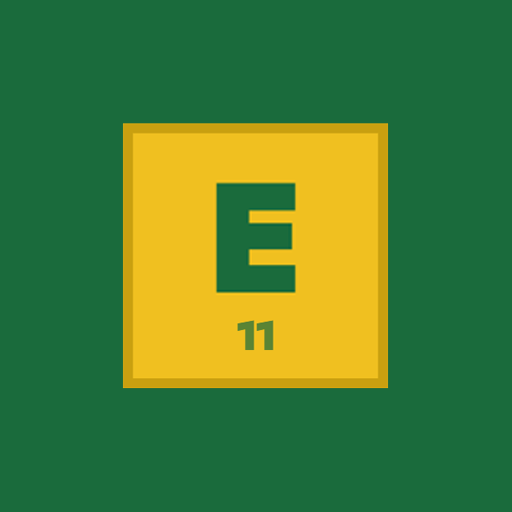
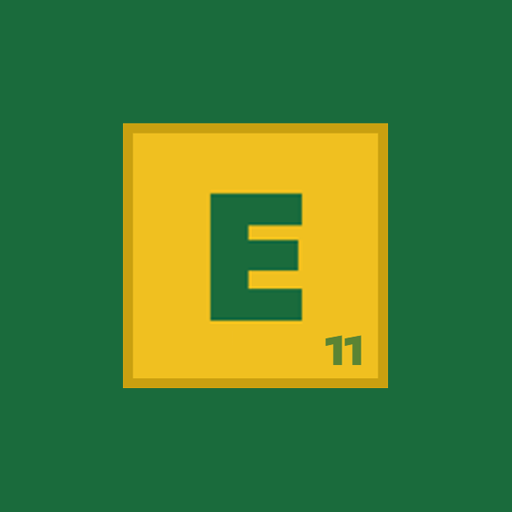
Add files via upload

Changed region(s): [[0.4062, 0.3438, 0.5938, 0.6875], [0.625, 0.6562, 0.7188, 0.7188]]

diff --git a/index.html b/index.html
@@ -525,7 +525,7 @@
     border: 2px solid var(--green);
     box-shadow: 0 3px 0 rgba(0,0,0,0.2);
   }
-  .how-to-pts { font-size: 8px; opacity: 0.7; margin-top: -2px; }
+  .how-to-pts { position:absolute; bottom:2px; right:3px; font-size:7px; font-weight:700; opacity:0.75; line-height:1; }
   .message {
     height: 44px;
     display: flex;
@@ -6392,7 +6392,7 @@ function renderAnagram() {
     return t ? { letter: t.letter } : null;
   }).filter(Boolean);
 
-  renderWordAsTiles(wordDisplay, wordLetters);
+  renderWordAsTiles(wordDisplay, wordLetters, 'ELEVENSIES', false);
   const word = wordLetters.map(l => l.letter).join('');
 
   // Show backspace when there are selected tiles
@@ -9242,7 +9242,7 @@ async function handlePushToggle() {
 }
 
 // ===== Shared tile word builder =====
-function renderWordAsTiles(el, letters, placeholder = 'ELEVENSIES') {
+function renderWordAsTiles(el, letters, placeholder = 'ELEVENSIES', showPts = true) {
   if (!letters || letters.length === 0) {
     el.innerHTML = `<span style="font-size:clamp(16px,5vw,28px);font-weight:900;letter-spacing:0.2em;color:rgba(240,192,32,0.2);">${placeholder}</span>`;
     el.classList.remove('filled');
@@ -9255,7 +9255,9 @@ function renderWordAsTiles(el, letters, placeholder = 'ELEVENSIES') {
   const ptSize = Math.max(7, Math.round(tileW * 0.22));
   el.innerHTML = letters.map(({ letter }) => {
     const pts = LETTER_VALUES[letter] || 0;
-    return `<div style="display:flex;flex-direction:column;align-items:center;justify-content:center;width:${tileW}px;height:${tileH}px;background:var(--gold);border:2px solid var(--gold-dark);font-size:${fontSize}px;font-weight:900;color:var(--green);flex-shrink:0;">${letter}<span style="font-size:${ptSize}px;font-weight:700;opacity:0.7;line-height:1;">${pts}</span></div>`;
+    return `<div style="display:flex;align-items:center;justify-content:center;width:${tileW}px;height:${tileH}px;background:var(--gold);border:2px solid var(--gold-dark);font-size:${fontSize}px;font-weight:900;color:var(--green);flex-shrink:0;position:relative;">
+      ${letter}${showPts ? `<span style="position:absolute;bottom:1px;right:2px;font-size:${ptSize}px;font-weight:700;opacity:0.75;line-height:1;">${pts}</span>` : ''}
+    </div>`;
   }).join('');
   el.classList.add('filled');
 }
